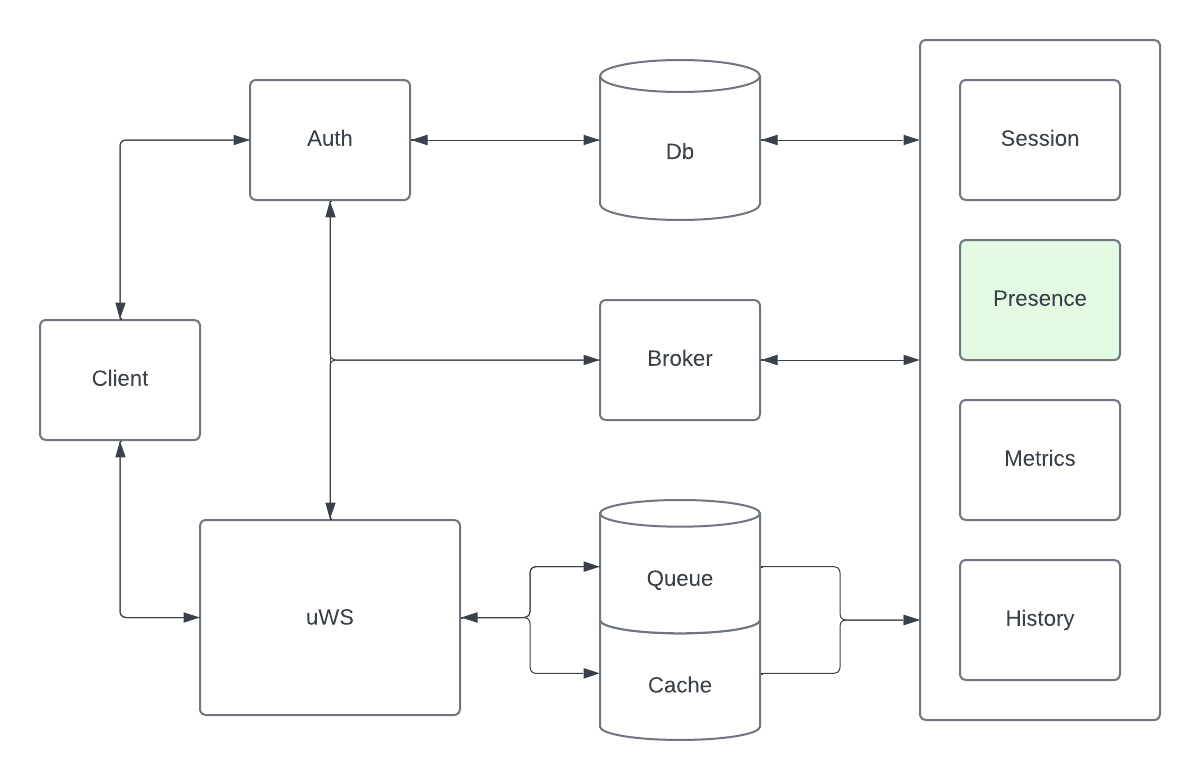
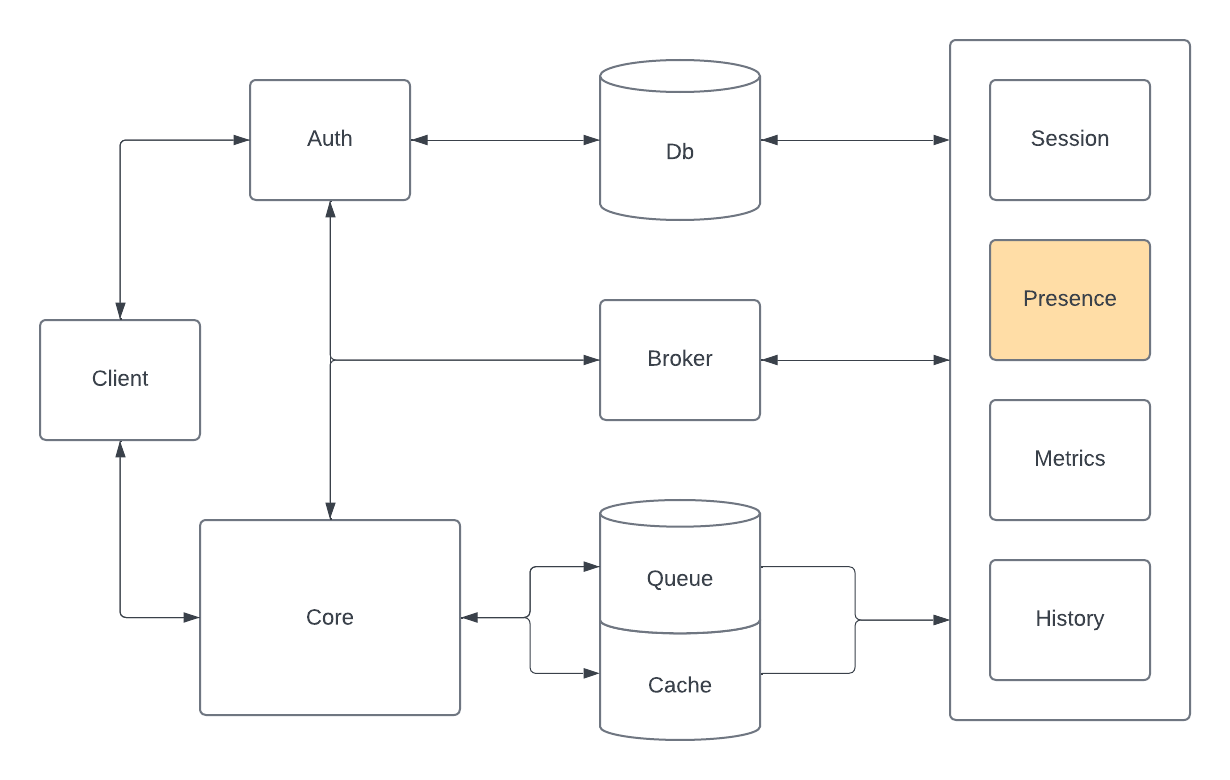
chore: add system diagram [skip ci]

diff --git a/README.md b/README.md
@@ -47,7 +47,7 @@ Essentially, presence is idenitifiable realtime event transmission for [rooms](h
 
 The Presence service is a Node.js worker triggered by jobs reveived from BullMQ. Jobs are added to the queue in response to events received by the [Core](https://github.com/relaybox/core) realtime service.
 
-<!-- ![RelayBox system diagram, highlight Presence](/assets/system/relaybox-system-presence.png) -->
+![RelayBox system diagram, highlight Presence](/assets/system/relaybox-system-presence.png)
 
 The following events and corresponding job data are processed by the service:
 
